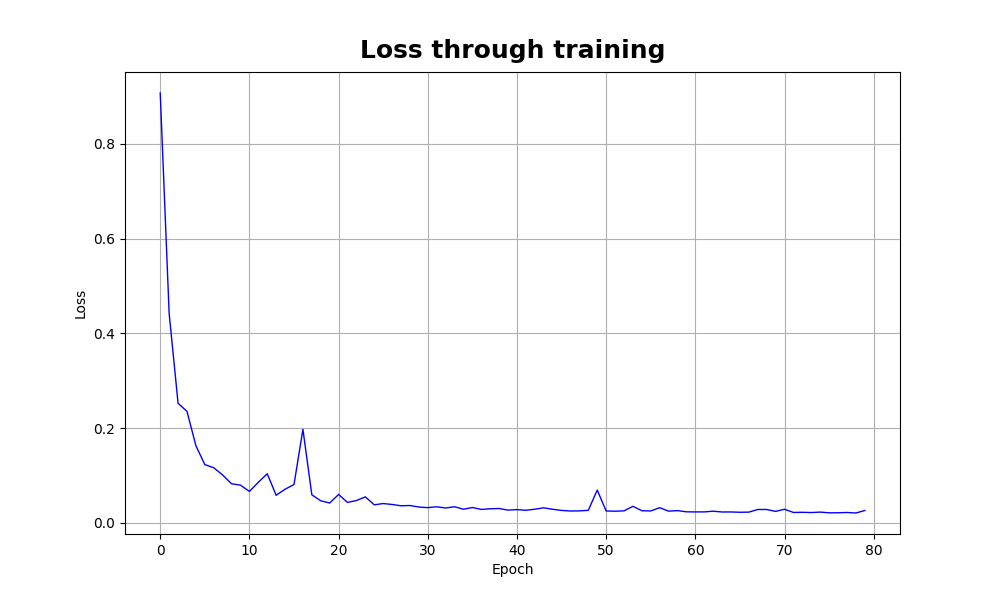
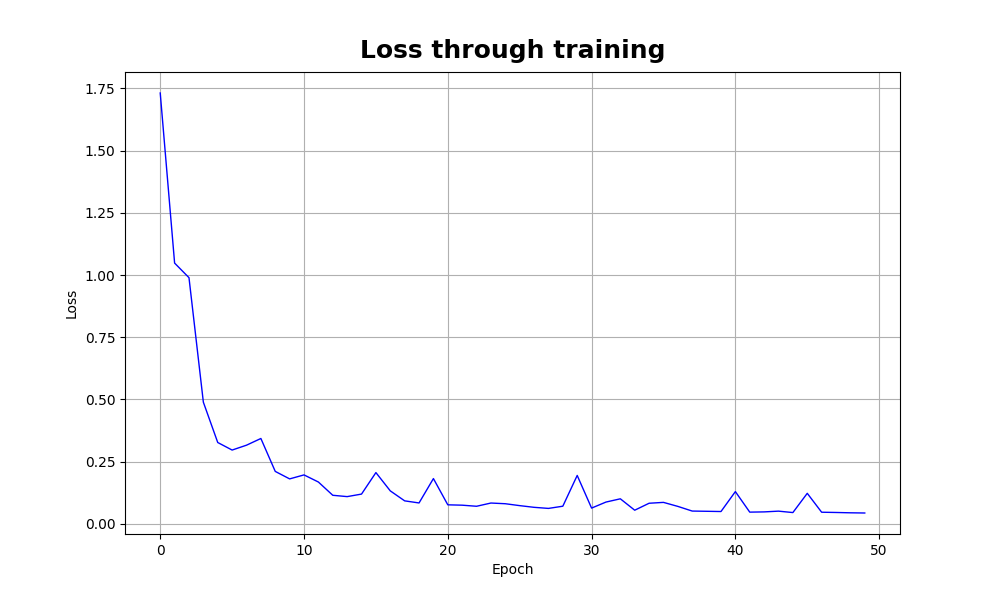
commit

diff --git a/CrossValidation.py b/CrossValidation.py
@@ -4,9 +4,6 @@ from NeuralNetwork import *
 from UtilsFunctions import *
 import concurrent.futures
 
-from UtilsFile import add_csv_line
-
-
 def cross_validation(X_train, Y_train, X_val, Y_val, num_neurons_list, lambda_list, activation_fn_list, num_epochs_list, minibatch_size_list, dir, print_debug=True):
     best_parameters = None
     best_rmse = float('inf')
@@ -15,6 +12,7 @@ def cross_validation(X_train, Y_train, X_val, Y_val, num_neurons_list, lambda_li
     best_minibatch_size = None
     best_lambda = None
     best_error = None
+    final_mae = None
     error_list_final_model = None
     best_activation_fn = None
     best_regularization = 0
@@ -28,18 +26,20 @@ def cross_validation(X_train, Y_train, X_val, Y_val, num_neurons_list, lambda_li
 
         parameters, error, error_list = model(X_train, Y_train, num_neurons, 0.01, epochs, activation_fn, lambda_r, regularization, minibatch_size)
         rmse = evaluate_model_rmse(X_val, parameters, Y_val, activation_fn)
+        mae = evaluate_model_mae(X_val, parameters, Y_val, activation_fn)
 
         if print_debug:
             if regularization == 0:
-                text = f"RMSE for model {num_neurons} with no regularization, hidden activation function {activation_fn}, {epochs} epochs and minibatch of size {minibatch_size}: "+str(rmse)
+                text = f"Model {num_neurons} with no regularization, hidden activation function {activation_fn}, {epochs} epochs and minibatch of size {minibatch_size}: RMSE "+str(rmse)+" MAE "+str(mae)
             else:
-                text = f"RMSE for model {num_neurons} with regularization {regularization_list[regularization]}, lambda {lambda_r}, hidden activation function {activation_fn}, {epochs} epochs and minibatch of size {minibatch_size}: "+str(rmse)
+                text = f"Model {num_neurons} with regularization {regularization_list[regularization]}, lambda {lambda_r}, hidden activation function {activation_fn}, {epochs} epochs and minibatch of size {minibatch_size}:  RMSE "+str(rmse)+" MAE "+str(mae)
             print(text)
 
         return {
             'activation_fn': activation_fn,
             'parameters': parameters,
             'rmse': rmse,
+            'mae': mae,
             'num_neurons': num_neurons,
             'epochs': epochs,
             'minibatch_size': minibatch_size,
@@ -50,9 +50,10 @@ def cross_validation(X_train, Y_train, X_val, Y_val, num_neurons_list, lambda_li
         }
 
     def update_best_model(result):
-        nonlocal best_rmse, best_parameters, best_neurons, best_epochs, best_minibatch_size, best_lambda, best_error, error_list_final_model, best_activation_fn, best_regularization
+        nonlocal best_rmse, best_parameters, best_neurons, best_epochs, best_minibatch_size, best_lambda, best_error, final_mae, error_list_final_model, best_activation_fn, best_regularization
         if result['rmse'] < best_rmse:
             best_rmse = result['rmse']
+            final_mae = result['mae']
             best_parameters = result['parameters']
             best_neurons = result['num_neurons']
             best_epochs = result['epochs']
@@ -88,7 +89,7 @@ def cross_validation(X_train, Y_train, X_val, Y_val, num_neurons_list, lambda_li
             results.append(result)
 
     for result in results:
-        add_csv_line(result['num_neurons'], regularization_list[result['regularization']], result['lambda'], result['error'], result['rmse'], result['activation_fn'], result['epochs'], result['minibatch_size'], dir)
+        add_csv_line(result['num_neurons'], regularization_list[result['regularization']], result['lambda'], result['error'], result['rmse'], result['mae'], result['activation_fn'], result['epochs'], result['minibatch_size'], dir)
         update_best_model(result)
 
     end = time.time()
@@ -96,13 +97,13 @@ def cross_validation(X_train, Y_train, X_val, Y_val, num_neurons_list, lambda_li
     print(f"End cross validation. Time spent for cross validation is {int(min)}:{sec:.2f} min\n")
 
     if best_regularization == 0:
-        text = f"Best configuration is {best_neurons} using no regularization, with activation function {best_activation_fn}, {best_epochs} epochs and minibatch of size {best_minibatch_size}"
+        text = f"Best configuration is {best_neurons} using no regularization, with activation function {best_activation_fn}, {best_epochs} epochs and minibatch of size {best_minibatch_size}\n"
     else:
-        text = f"Best configuration is {best_neurons} using {regularization_list[best_regularization]} with lambda {best_lambda}, activation function {best_activation_fn}, {best_epochs} epochs and minibatch of size {best_minibatch_size}"
+        text = f"Best configuration is {best_neurons} using {regularization_list[best_regularization]} with lambda {best_lambda}, activation function {best_activation_fn}, {best_epochs} epochs and minibatch of size {best_minibatch_size}\n"
 
     print(f"The error on training set is: {best_error}")
     print(text)
-    text2 = "The RMSE on validation set is: "+str(best_rmse)
+    text2 = "The RMSE on validation set is: "+str(best_rmse)+"\nThe MAE on validation set is: "+str(final_mae)
     print(text2)
 
     with open(f'plots/{dir}/result/final_result', "w") as file:

diff --git a/NeuralNetwork.py b/NeuralNetwork.py
@@ -13,8 +13,7 @@ def model(X, y, num_neurons, learning_rate, epochs, activation_fn, lambda_r, reg
     # initialize parameters
     parameters, previous_parameters = initialize_parameters(num_neurons, activation_fn)
 
-    # intialize cost and metric list
-    metric_list = []
+    # initialize cost and metric list
     cost_list = []
 
     for i in range(epochs):
@@ -25,17 +24,14 @@ def model(X, y, num_neurons, learning_rate, epochs, activation_fn, lambda_r, reg
         for mini_batch in mini_batches:
             (mini_batch_X, mini_batch_y) = mini_batch
 
-            # Forward propagation
-            AL, caches = L_model_forward(mini_batch_X, parameters, activation_fn)
+            AL, caches = forward_propagation(mini_batch_X, parameters, activation_fn)
 
-            # Backward propagation
-            grads = L_model_backward_reg(AL, mini_batch_y, caches, activation_fn, lambda_r, regularization)
+            grads = backward_propagation(AL, mini_batch_y, caches, activation_fn, lambda_r, regularization)
 
-            # Update parameters
             parameters, previous_parameters = update_parameters(parameters, grads, diminishing_stepsize, previous_parameters)
 
 
-        AL, caches = L_model_forward(X, parameters, activation_fn)
+        AL, caches = forward_propagation(X, parameters, activation_fn)
         reg_cost = compute_cost_reg(AL, y, parameters, lambda_r, regularization)
 
         cost_list.append(reg_cost)
@@ -67,11 +63,17 @@ def compute_cost_reg(AL, y, parameters, lambda_r=0, regularization=0):
 
 def evaluate_model_rmse(X, parameters, y, activation_fn):
     # Forward propagate to get predictions
-    predictions, caches = L_model_forward(X, parameters, activation_fn)
+    predictions, caches = forward_propagation(X, parameters, activation_fn)
     # Compute Root Mean Squared Error (RMSE)
     rmse = np.sqrt(np.mean(np.square(predictions - y)))
     return rmse
 
+def evaluate_model_mae(X, parameters, y, activation_fn):
+    # Forward propagate to get predictions
+    predictions, caches = forward_propagation(X, parameters, activation_fn)
+    # Compute Mean Absolute Error (MAE)
+    mae = np.mean(np.abs(predictions - y))
+    return mae
 
 def initialize_parameters(num_neurons, activation_fn):
     assert activation_fn == "relu" or activation_fn == "tanh"
@@ -83,10 +85,11 @@ def initialize_parameters(num_neurons, activation_fn):
     for l in range(1,L):
         if activation_fn == "relu":
             #He initialization for relu
-            parameters["W" + str(l)] = np.random.randn(num_neurons[l], num_neurons[l - 1]) * np.sqrt(2 / num_neurons[l - 1])
+            factor = np.sqrt(2 / num_neurons[l - 1])
         else:
             #Xavier/Glorot initialization for tanh
-            parameters["W" + str(l)] = np.random.randn(num_neurons[l], num_neurons[l - 1]) * np.sqrt(2 / (num_neurons[l - 1] + num_neurons[l]))
+            factor = np.sqrt(2 / (num_neurons[l - 1] + num_neurons[l]))
+        parameters["W" + str(l)] = np.random.randn(num_neurons[l], num_neurons[l - 1]) * factor
 
         parameters["b" + str(l)] = np.zeros((num_neurons[l], 1))
         previous_parameters["W" + str(l)] = np.zeros((num_neurons[l], num_neurons[l - 1]))

diff --git a/Main.py b/Main.py
@@ -1,19 +1,15 @@
-from scipy.stats import moment
-
 from AirQualityPreprocessing import *
 from CrossValidation import *
 from HousingPreprocessing import HousingData
 from SeoulBikePreprocessing import SeoulBikeData
-from Start import *
 
 
 def main():
-    start()
     np.random.seed(123456)
     np.set_printoptions(suppress=True)
 
     dataset = menu(
-        "Which dataset do you want to use?\n[1] Air Quality\n[2] Seoul Bike Sharing Demand\n[3] Median House Value",
+        "Which dataset do you want to use?\n1 --> Air Quality\n2 --> Seoul Bike Sharing Demand\n3 --> Median House Value",
         ["1", "2", "3"]
     )
 
@@ -30,19 +26,19 @@ def main():
     # definisci possibili scelte per cross validation
     input_layer = X_train.shape[0]
     num_neurons_list = [[input_layer, 128, 1], [input_layer, 128, 64, 1], [input_layer, 128, 64, 64, 1]]
-    lambda_list = [1e-3, 1e-1]
+    lambda_list = [1e-3, 1e-2, 1e-1]
     activation_fn_list = ["relu", "tanh"]
-    minibatch_size_list = [128]
-    num_epochs_list = [80]
+    minibatch_size_list = [64]
+    num_epochs_list = [50]
     best_parameters, activation_function = cross_validation(X_train, y_train, X_val, y_val, num_neurons_list, lambda_list, activation_fn_list, num_epochs_list, minibatch_size_list, dir)
 
-    # print the test rmse
+    # print the test rmse and mae
     test_rmse = evaluate_model_rmse(X_test, best_parameters, y_test, activation_function)
-    text = "The RMSE on test set is: " + str(test_rmse)
+    test_mae = evaluate_model_mae(X_test, best_parameters, y_test, activation_function)
+    text = "\nThe RMSE on test set is: " + str(test_rmse)+"\nThe MAE on test set is: " + str(test_mae)
     print(text)
     with open('plots/' + dir + '/result/final_result', "a") as file:
         file.write(text + "\n")
-
 
 
 def menu(message, options):

diff --git a/Packages.py b/Packages.py
@@ -2,32 +2,28 @@ import subprocess
 import sys
 import importlib
 
-# Funzione per verificare se pip è installato
 def check_pip():
     try:
         import pip
-        print("pip è già installato.")
+        print("pip is already installed.")
     except ImportError:
-        print("pip non è installato. Installazione in corso...")
+        print("pip is not installed. Installation in progress...")
         subprocess.check_call([sys.executable, "-m", "ensurepip", "--upgrade"])
-        print("pip installato correttamente.")
+        print("pip has been installed successfully.")
 
 
-# Funzione per installare un pacchetto Python
 def install_package(package_mod, package_nm):
     try:
         importlib.import_module(package_nm)
-        print(f"{package_nm} è già installato.")
+        print(f"{package_nm} is already installed.")
     except ImportError:
-        print(f"{package_nm} non è installato. Installazione in corso...")
+        print(f"{package_nm} is not installed. Installation in progress...")
         subprocess.check_call([sys.executable, "-m", "pip", "install", package_mod])
 
 
 def start():
-    # Verifica se pip è installato
     check_pip()
 
-    # Elenco dei pacchetti da controllare
     packages = {
         "numpy": "numpy",
         "matplotlib": "matplotlib",
@@ -35,8 +31,10 @@ def start():
         "scikit-learn": "scikit-learn"
     }
 
-    # Verifica e installa i pacchetti necessari
     for package_name, module_name in packages.items():
         install_package(module_name, package_name)
 
-    print("Tutti i pacchetti sono stati verificati e installati se necessario.")
+    print("All packages have been installed successfully.\n")
+
+if __name__ == "__main__":
+    start()

diff --git a/UtilsFunctions.py b/UtilsFunctions.py
@@ -1,5 +1,6 @@
 import numpy as np
 import matplotlib.pyplot as plt
+import csv
 
 # Roll a dictionary into a single vector.
 def dictionary_to_vector(params_dict):
@@ -46,5 +47,21 @@ def plotError(error_list, num_iterations, dir, model_name="final_model_error"):
     plt.grid(True)
     plt.savefig('plots/' + dir + '/result/' + model_name + '.png')
     plt.close()
+
+
+def add_csv_line(model, regularization, lambd, error, rmse, mae, activation_fn, epochs, minibatch_size, dir):
+    # Apro il file in modalità 'append' per aggiungere righe senza sovrascrivere
+    with open('plots/' + dir + '/result/results.csv', mode='a', newline='') as file:
+        nomi_colonne = ['model', 'regularization', 'lambda', 'error', 'rmse', 'mae', 'activation_fn', 'epochs', 'minibatch_size']
+        nuova_riga = {'model': model, 'regularization': regularization, 'lambda': lambd, 'error': error, 'rmse': rmse, 'mae': mae, 'activation_fn': activation_fn, 'epochs': epochs, 'minibatch_size': minibatch_size}
+        writer = csv.DictWriter(file, fieldnames=nomi_colonne)
+
+        # Scrivo l'intestazione (solo se il file è vuoto)
+        if file.tell() == 0:
+            writer.writeheader()
+
+        # Aggiungo la riga passata come argomento
+        writer.writerow(nuova_riga)
+
 
 

diff --git a/SeoulBikePreprocessing.py b/SeoulBikePreprocessing.py
@@ -36,15 +36,6 @@ def SeoulBikeData():
     #encoding and standardization
     X_train, X_val, X_test = encoding_and_standardization(X_train, X_val, X_test, numerical = numerical_features, categorical=categorical_features)
 
-    y_train = y_train.to_numpy()
-    y_val = y_val.to_numpy()
-    y_test = y_test.to_numpy()
-
-    X_train = X_train.T
-    y_train = y_train.reshape(1, -1)
-    X_val = X_val.T
-    y_val = y_val.reshape(1, -1)
-    X_test = X_test.T
-    y_test = y_test.reshape(1, -1)
+    X_train, y_train, X_val, y_val, X_test, y_test = reshape_dataset(X_train, y_train, X_val, y_val, X_test, y_test)
 
     return X_train, X_val, X_test, y_train, y_val, y_test

diff --git a/HousingPreprocessing.py b/HousingPreprocessing.py
@@ -33,15 +33,6 @@ def HousingData():
     #encoding and standardization
     X_train, X_val, X_test = encoding_and_standardization(X_train, X_val, X_test, numerical = numerical_features, categorical=categorical_features)
 
-    y_train = y_train.to_numpy()
-    y_val = y_val.to_numpy()
-    y_test = y_test.to_numpy()
-
-    X_train = X_train.T
-    y_train = y_train.reshape(1, -1)
-    X_val = X_val.T
-    y_val = y_val.reshape(1, -1)
-    X_test = X_test.T
-    y_test = y_test.reshape(1, -1)
+    X_train, y_train, X_val, y_val, X_test, y_test = reshape_dataset(X_train, y_train, X_val, y_val, X_test, y_test)
 
     return X_train, X_val, X_test, y_train, y_val, y_test

diff --git a/AirQualityPreprocessing.py b/AirQualityPreprocessing.py
@@ -52,15 +52,6 @@ def AirQualityData():
     #encoding and standardization
     X_train, X_val, X_test = encoding_and_standardization(X_train, X_val, X_test, numerical = numerical_features)
 
-    y_train = y_train.to_numpy()
-    y_val = y_val.to_numpy()
-    y_test = y_test.to_numpy()
-
-    X_train = X_train.T
-    y_train = y_train.reshape(1, -1)
-    X_val = X_val.T
-    y_val = y_val.reshape(1, -1)
-    X_test = X_test.T
-    y_test = y_test.reshape(1, -1)
+    X_train, y_train, X_val, y_val, X_test, y_test = reshape_dataset(X_train, y_train, X_val, y_val, X_test, y_test)
 
     return X_train, X_val, X_test, y_train, y_val, y_test

diff --git a/Backpropagation.py b/Backpropagation.py
@@ -1,7 +1,7 @@
 from UtilsFunctions import *
 
 # forward propagation con funzione di attivazione lineare
-def L_model_forward(X, parameters, activation_fn="relu"):
+def forward_propagation(X, parameters, activation_fn="relu"):
     Z = X
     caches = []
     L = len(parameters) // 2
@@ -46,7 +46,7 @@ def linear_activation_forward(Z_prev, W, b, activation_fn):
     return Z, cache
 
 
-def L_model_backward_reg(AL, y, caches, activation_fn="relu", lambda_r=0, regularization=0):
+def backward_propagation(AL, y, caches, activation_fn="relu", lambda_r=0, regularization=0):
     y = y.reshape(AL.shape)
     L = len(caches)
     grads = {}

diff --git a/UtilsPreprocessing.py b/UtilsPreprocessing.py
@@ -65,3 +65,17 @@ def plot_features(data, features, dir):
         plt.ylabel("count", fontsize = 10)
         plt.grid(linewidth = 0.3)
         plt.savefig('plots/' + dir + '/features/' + feature + '.png')
+
+def reshape_dataset(X_train, y_train, X_val, y_val, X_test, y_test):
+    y_train = y_train.to_numpy()
+    y_val = y_val.to_numpy()
+    y_test = y_test.to_numpy()
+
+    X_train = X_train.T
+    y_train = y_train.reshape(1, -1)
+    X_val = X_val.T
+    y_val = y_val.reshape(1, -1)
+    X_test = X_test.T
+    y_test = y_test.reshape(1, -1)
+
+    return X_train, y_train, X_val, y_val, X_test, y_test
